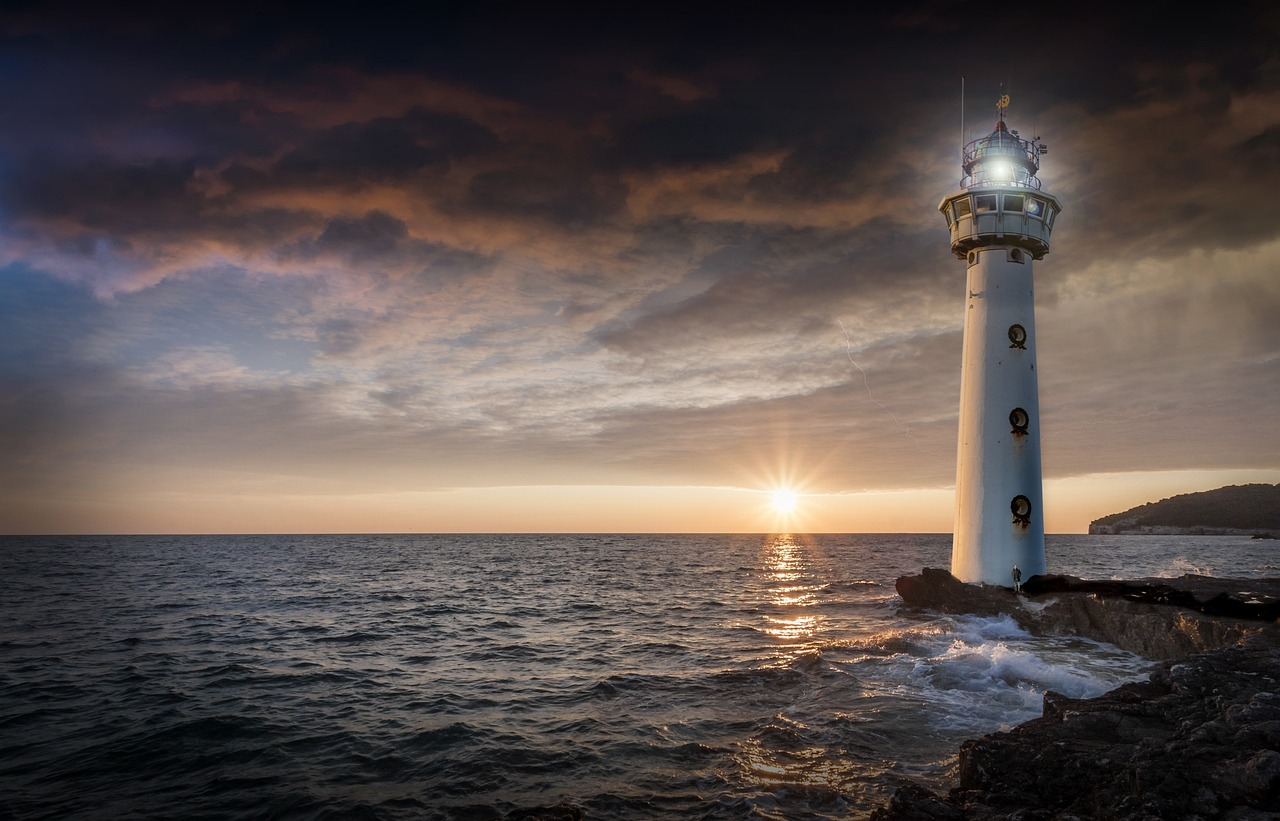
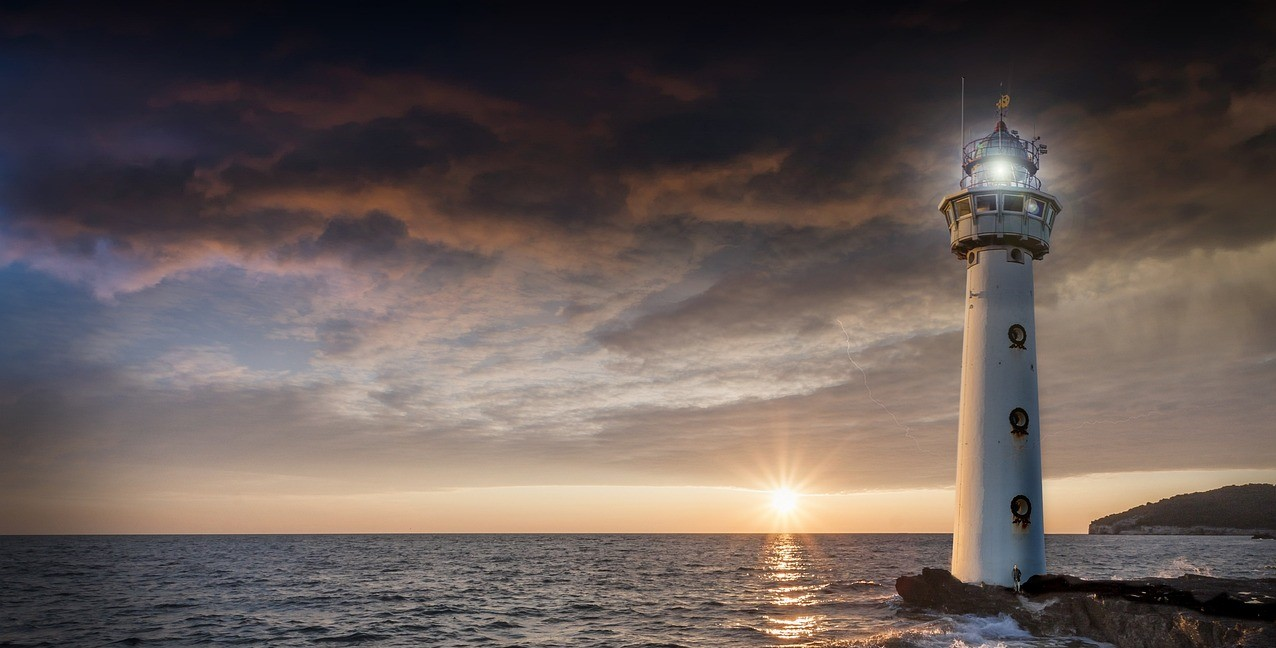
made change for the hero image

diff --git a/src/index.css b/src/index.css
@@ -25,7 +25,7 @@ section.main p {
 }
 section.main h1 {
   position: absolute;
-  top: 130px;
+  top: 250px;
   left: 60%;
   transform: translateX(-50%);
   font-size: 60px;
@@ -33,7 +33,7 @@ section.main h1 {
 }
 section.main p {
   position: absolute;
-  top: 250px;
+  top: 350px;
   left: 50%;
   transform: translateX(-50%);
   font-size: 20px;
@@ -42,7 +42,7 @@ section.main p {
 
 section.main h2 {
   position: absolute;
-  top: 360px;
+  top: 500px;
   left: 50%;
   transform: translateX(-50%);
   font-size: 40px;
@@ -50,8 +50,8 @@ section.main h2 {
 }
   section.main {
     position: relative;
-     background-image: url('asset/home.jpg');
-    height: 600px; 
+    background-image: url('asset/home.jpg');
+    height: 700px; 
     background-size: cover;
     background-position: center;
     background-repeat: no-repeat;
